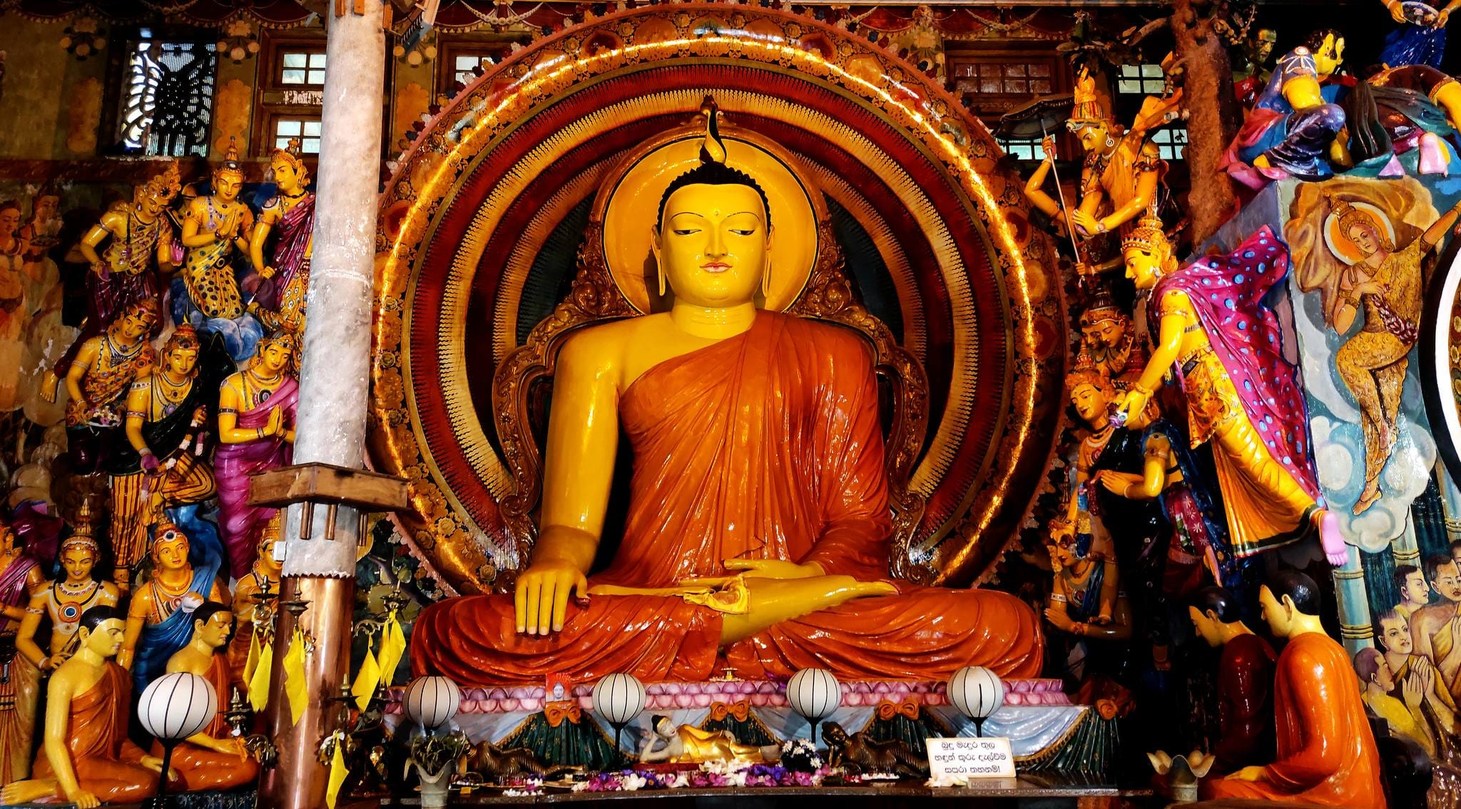
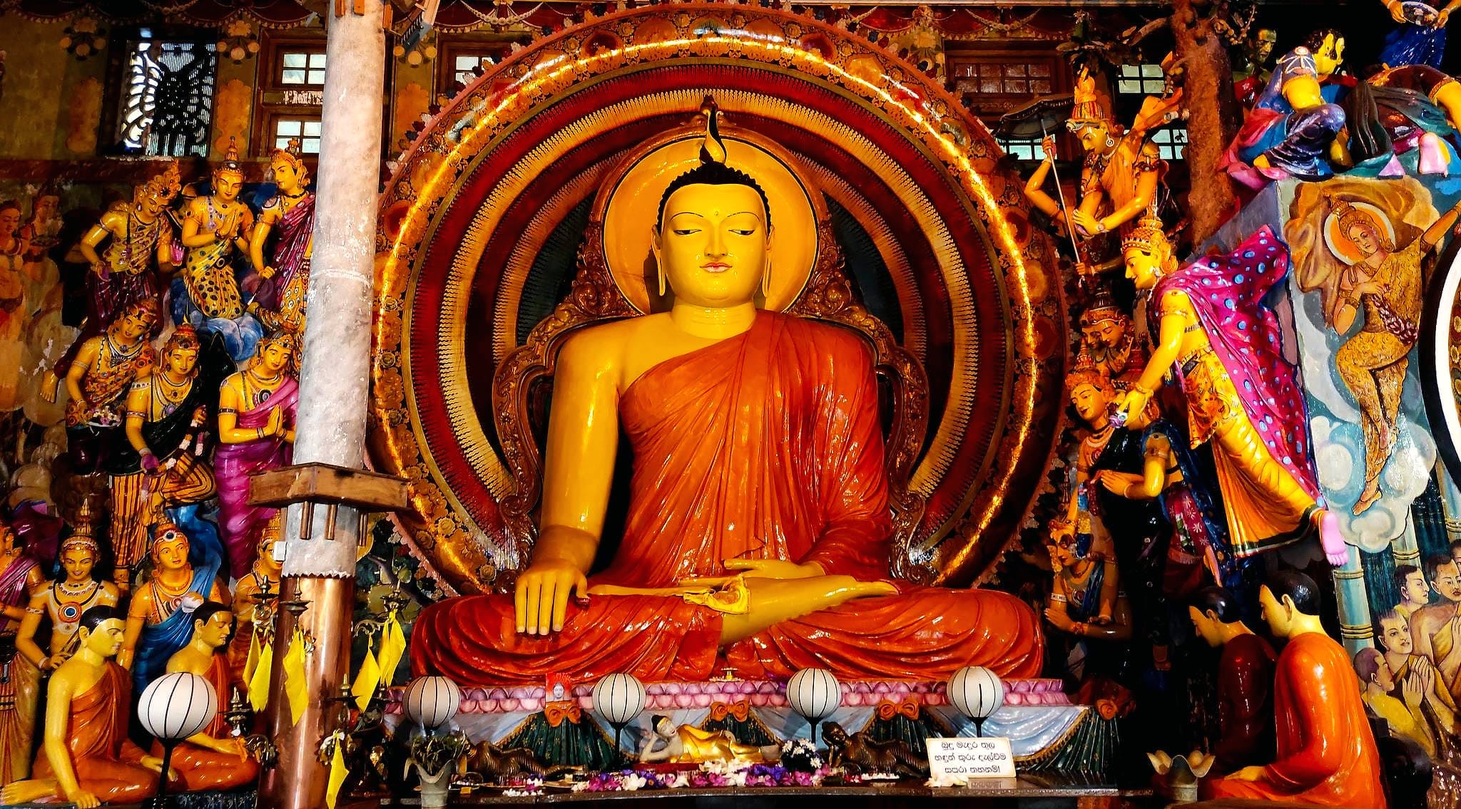
feat: consistent "Paradise grade" colour grading for all photos
- scripts/grade-photos.mjs: gentle auto-levels (fixes haze), warmth,
  lifted shadows with protected highlights (skies keep detail), modest
  saturation, light clarity — docs/04 §8
- Untouched originals kept in assets-src/photos/ (not bundled); graded
  copies in src/assets/images/photos/; --preview makes before/after sheets
- README: how to grade new photos

diff --git a/README.md b/README.md
@@ -41,6 +41,9 @@ Internal pages: `/styleguide` (all components, noindex).
 - `sample: true` entries render in dev/staging only and are **never** built in production.
 - Hotels: set `rateDisplay` only after checking the contract (rate parity, docs/10).
 - Reviews: real only, with `permission: true` — the build fails otherwise.
+- Photo grading: originals live untouched in `assets-src/photos/`; `node scripts/grade-photos.mjs` writes the
+  graded copies (warm, lifted shadows, protected highlights — docs/04 §8) to `src/assets/images/photos/`.
+  `--preview /tmp/out` makes before/after sheets instead. Add new originals to `assets-src/photos/` and re-run.
 - Images: put photos in content via Keystatic (≥ 2400 px wide); they're converted to AVIF/WebP automatically. Until then, labelled colour placeholders are shown.
 
 ## Environment
